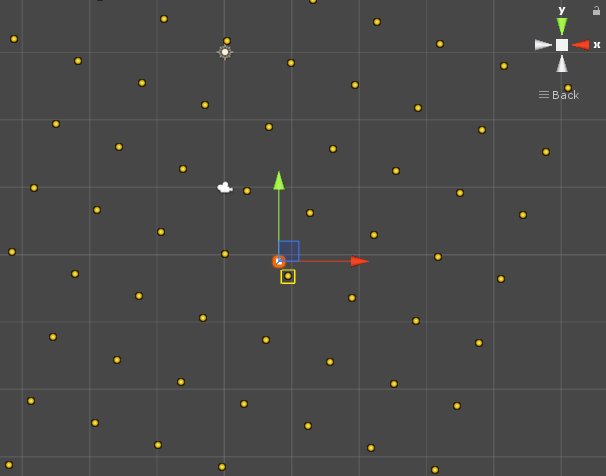
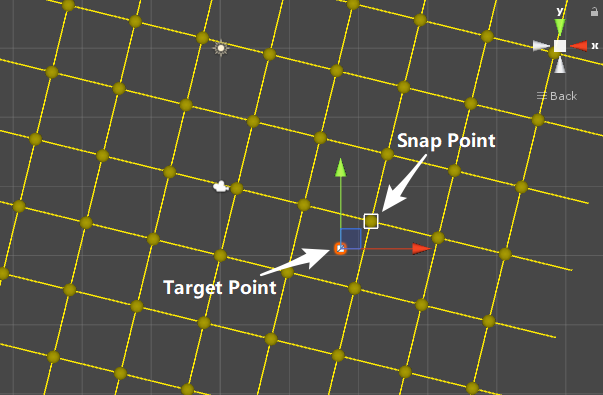
better visualize the grid

diff --git a/Assets/Grid/Scripts/GridSystem.cs b/Assets/Grid/Scripts/GridSystem.cs
@@ -5,38 +5,39 @@ using UnityEngine;
 public class GridSystem : MonoBehaviour {
 
 	public float GridSize = 1;
-	public GameObject Dot;
 	public GameObject Target;
 
-
-	private Vector3 snapPosition = Vector3.zero;
-
-
-	private void Start() {
-		VisualizeGrid();
-	}
+	
+	private Vector3 _snapPosition = Vector3.zero;
 
 
 	private void Update() {
 		if(Target != null) {
-			snapPosition = SnapPosition(Target.transform.position);
+			_snapPosition = SnapPosition(Target.transform.position);
 		}
 	}
 
 
 	private void OnDrawGizmos() {
-		Gizmos.color = Color.yellow;
-		Gizmos.DrawWireCube(snapPosition, Vector3.one * .2f);
+		VisualizeGrid();
+
+		Gizmos.color = Color.white;
+		Gizmos.DrawWireCube(_snapPosition, Vector3.one * .2f);
 	}
 
 
 	private void VisualizeGrid(int size = 5) {
-		int min = -size + 1, max = size;
-		for (int u = min; u < max; u++) {
-			for (int v = min; v < max; v++) {
-				for (int w = min; w < max; w++) {
-					Vector3 position = GridCoordinateToWorld(new Vector3(u, v, w));
-					GameObject dot = Instantiate(Dot, position, transform.rotation, transform);
+		Gizmos.color = Color.yellow;
+
+		int min = -size + 1;
+		for (int u = min; u < size; u++) {
+			for (int v = min; v < size; v++) {
+				for (int w = min; w < size; w++) {
+					Vector3 point = GridCoordinateToWorld(new Vector3(u, v, w));
+					Gizmos.DrawRay(point, transform.forward * GridSize);
+					Gizmos.DrawRay(point, transform.right * GridSize);
+					Gizmos.DrawRay(point, transform.up * GridSize);
+					Gizmos.DrawSphere(point, 0.1f);
 				}
 			}
 		}
